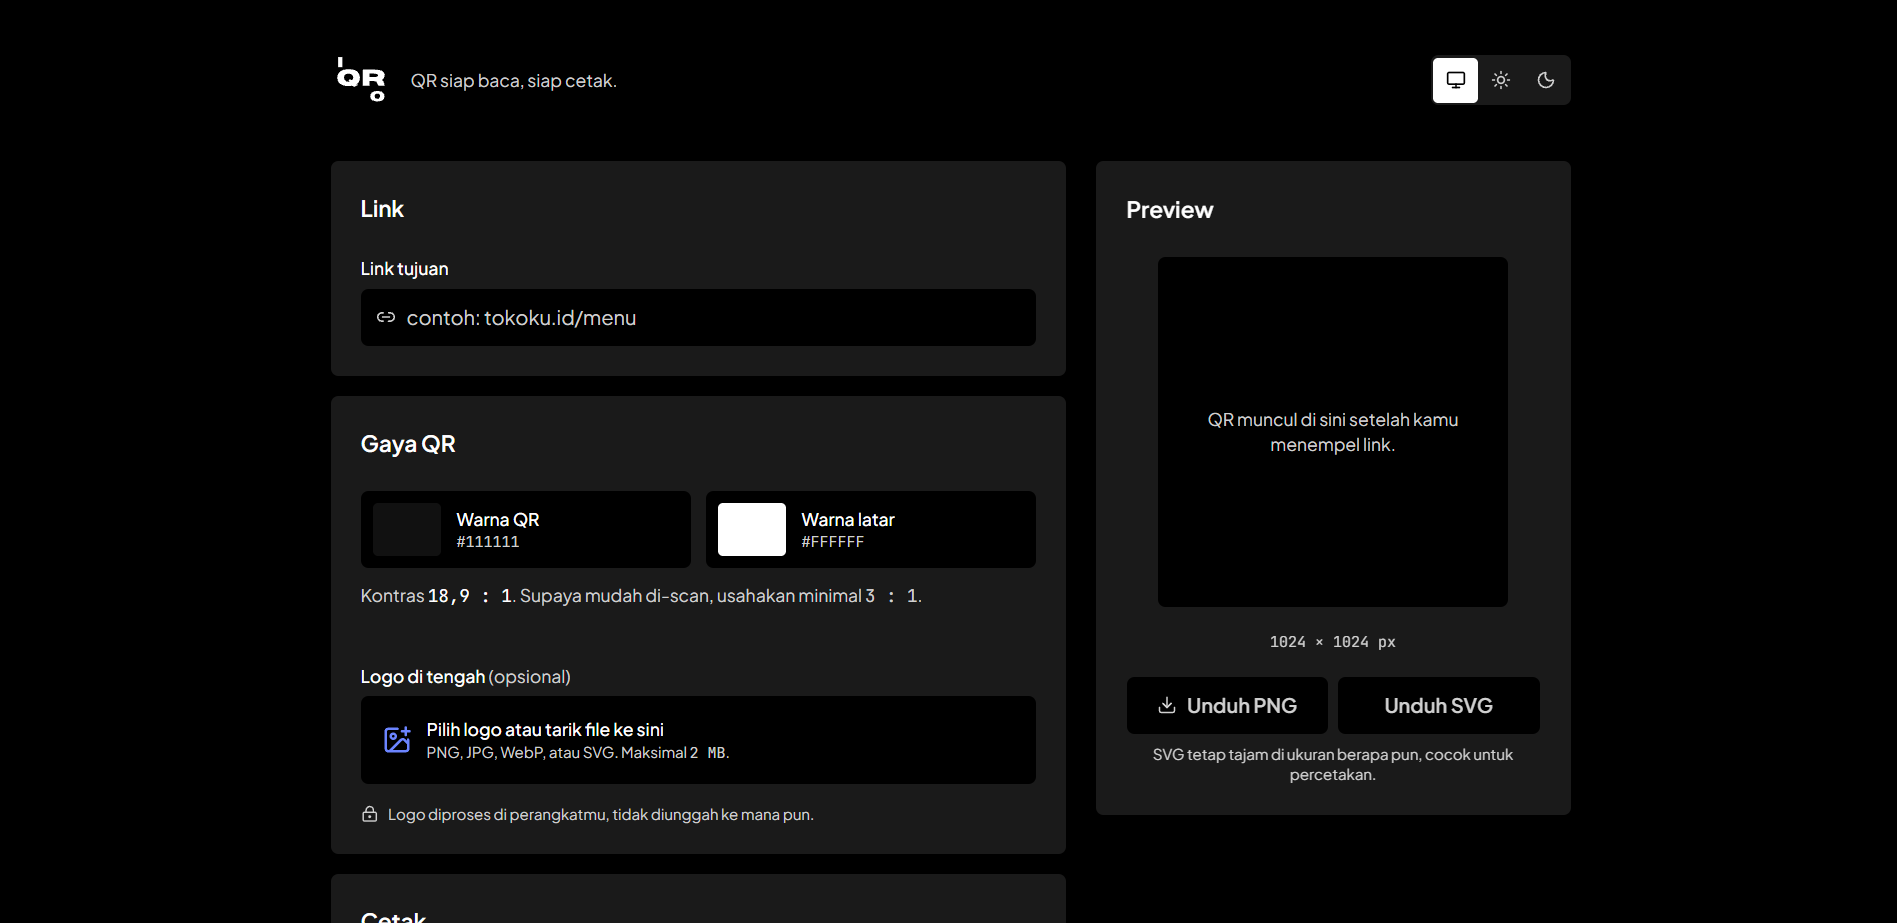
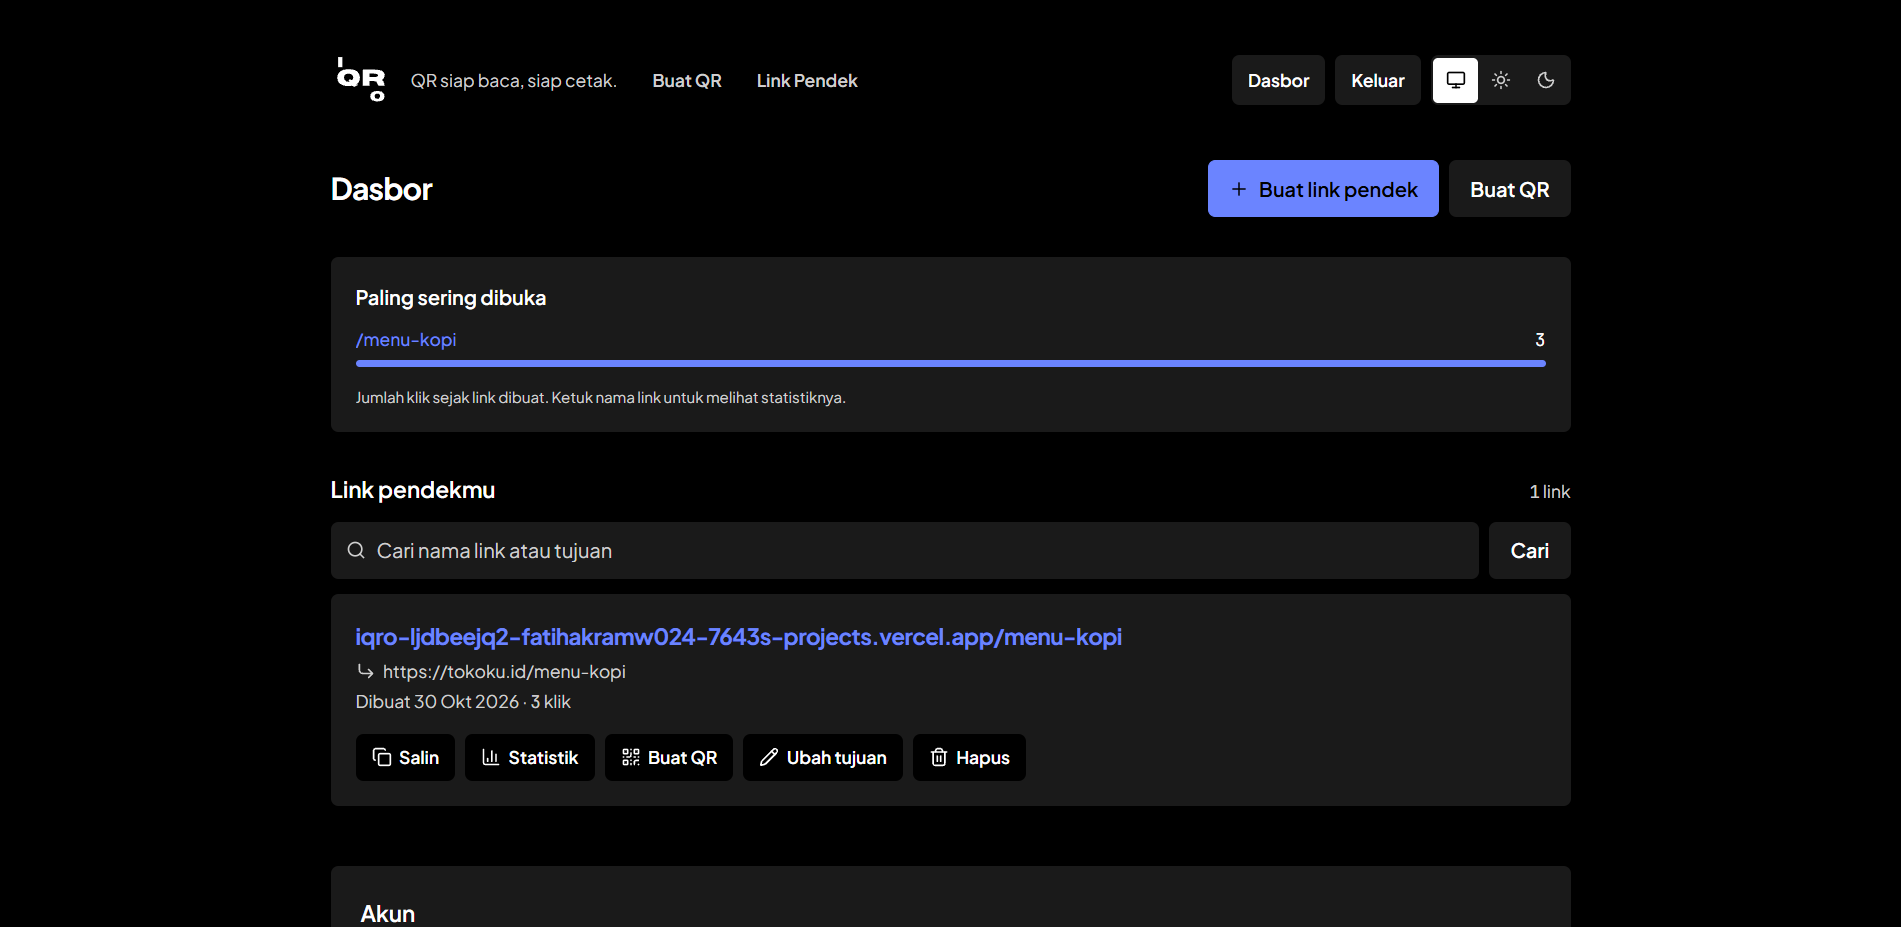
docs: perbarui README untuk v2 (link pendek, akun, analitik)

diff --git a/README.md b/README.md
@@ -1,12 +1,14 @@
 # iQRo — QR siap baca, siap cetak
 
-Buat QR code dari link, dengan logo di tengah dan template siap cetak untuk UMKM. Semua diproses di browser: tidak ada akun, tidak ada server, logo tidak diunggah ke mana pun.
+Buat QR code dari link, dengan logo di tengah dan template siap cetak untuk UMKM. Pembuat QR berjalan 100% di browser: logo tidak diunggah ke mana pun. Ada juga link pendek dengan statistik klik untuk yang punya akun.
 
 **Coba langsung:** [iqro-alpha.vercel.app](https://iqro-alpha.vercel.app)
 
 ![Tampilan iQRo](docs/screenshot.png)
 
 ## Fitur
+
+### Pembuat QR (tanpa akun, tanpa server)
 
 - Link otomatis dirapikan (`tokoku.id` → `https://tokoku.id`); hanya link http/https yang diterima.
 - Warna QR dan latar, dengan peringatan kalau kontras terlalu rendah atau QR terbalik.
@@ -15,16 +17,43 @@ Buat QR code dari link, dengan logo di tengah dan template siap cetak untuk UMKM
 - Unduh QR saja (PNG 1024 px, SVG) atau template (PNG 300 DPI, PDF ukuran asli).
 - Tema terang dan gelap: ikut pengaturan perangkat, atau pilih sendiri lewat tombol tema.
 
+### Link pendek
+
+- Tanpa akun: buat link pendek otomatis (maks. 5 per hari), berlaku 30 hari.
+- Dengan akun: nama link sendiri (mis. `iqro-alpha.vercel.app/warung-bu-sri`), link permanen, ubah tujuan tanpa mengganti QR yang sudah dicetak, hapus link, dan simpan link buatan tanpa akun ke akunmu.
+- Statistik klik: total, grafik 30 hari, asal pengunjung, jenis perangkat, dan negara. Alamat IP pengunjung tidak disimpan.
+- Setiap tujuan dicek dengan Google Safe Browsing; link mencurigakan bisa dilaporkan lewat halaman Laporkan.
+- Akun bisa dihapus sendiri dari Dasbor, beserta semua link dan statistiknya.
+
 ## Tech stack
 
 - [Next.js](https://nextjs.org) 16 (App Router) + TypeScript
 - Tailwind CSS
+- [Supabase](https://supabase.com) (database Postgres + login), dengan Row Level Security
+- [Google Safe Browsing](https://developers.google.com/safe-browsing) untuk mengecek link
+- Vercel (hosting + cron harian)
 - [qr-code-styling](https://github.com/kozakdenys/qr-code-styling), [jsPDF](https://github.com/parallax/jsPDF), [lucide-react](https://lucide.dev)
 - Font: Plus Jakarta Sans, JetBrains Mono (`next/font/google`)
 
 ## Menjalankan di komputer
 
 Butuh [Node.js](https://nodejs.org) versi LTS.
+
+Pembuat QR di halaman utama bisa jalan tanpa pengaturan apa pun. Untuk fitur link pendek dan akun:
+
+1. Buat project Supabase, lalu jalankan isi `supabase/schema.sql` di SQL Editor.
+2. Buat file `.env.local` (jangan di-commit) berisi:
+
+   ```
+   NEXT_PUBLIC_SUPABASE_URL=
+   NEXT_PUBLIC_SUPABASE_PUBLISHABLE_KEY=
+   SUPABASE_SECRET_KEY=
+   GOOGLE_SAFE_BROWSING_KEY=
+   RAHASIA_SIDIK_IP=
+   CRON_SECRET=
+   ```
+
+Lalu:
 
 ```bash
 npm install
